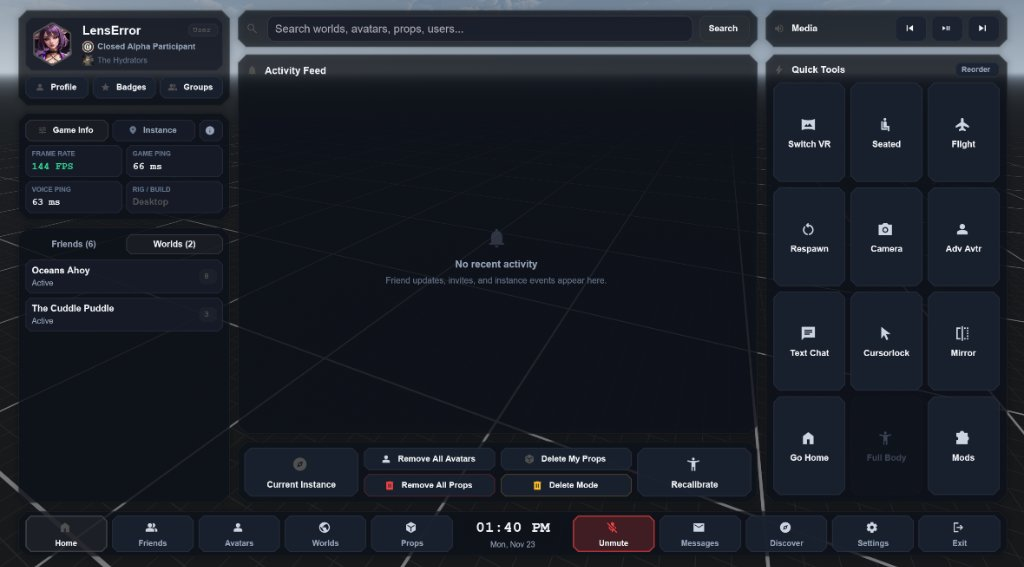
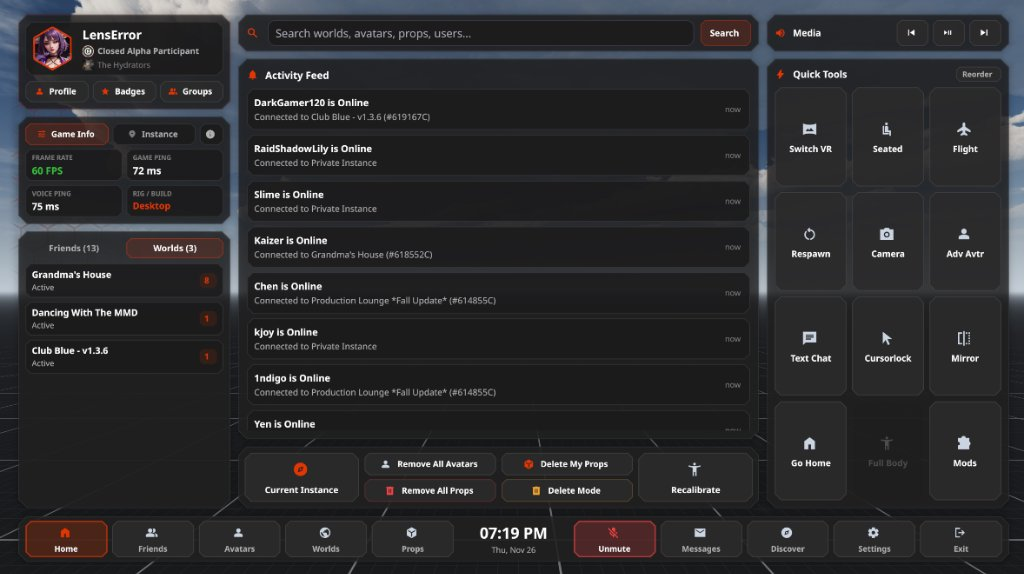
Update README and refresh screenshots

diff --git a/README.md b/README.md
@@ -1,49 +1,85 @@
 # LumenicMenu
 
-A MelonLoader mod for ChilloutVR that replaces the Cohtml-based Main Menu and Quick Menu with a native Rust UI built on [Lumenic](https://github.com/LensError/Lumenic), rendered offscreen and uploaded to Unity textures.
+A fast, modern replacement for ChilloutVR's **Main Menu**, **Quick Menu**, and **HUD**, built with a native Rust UI renderer ([Lumenic](https://github.com/LensError/Lumenic)) for smooth performance in both Desktop and VR.
+
+## Installation
+
+1. Make sure **MelonLoader** is installed for ChilloutVR.
+2. Download the latest `LumenicMenu.dll` from the [Releases](https://github.com/LensError/Lumenic-CVR-Menu/releases/latest) page.
+3. Place `LumenicMenu.dll` into your `ChilloutVR/Mods/` folder.
+4. Launch ChilloutVR.
+
+> [!TIP]
+> LumenicMenu includes a built-in update checker that notifies you when a new version is available and lets you update directly from inside the game.
 
 ## Screenshots
 
-| Quick Menu (Pinned & 3D Avatar) | Main Menu (Home Dashboard) |
+| Quick Menu | Main Menu |
 |---|---|
-| ![Quick Menu](images/quick-menu.jpg) | ![Main Menu Home](images/main-menu-home.jpg) |
+| ![Quick Menu](images/quick-menu.jpg) | ![Main Menu](images/main-menu-home.jpg) |
 
-| Settings (Live Search) | Worlds Browser |
+| Settings | World Details |
 |---|---|
-| ![Settings Search](images/settings-search.jpg) | ![Worlds Browser](images/worlds-browser.jpg) |
+| ![Settings](images/settings.jpg) | ![World Details](images/world-details.jpg) |
 
-| Avatar Settings | User Profile & Moderation |
-|---|---|
-| ![Avatar Settings](images/avatar-settings.jpg) | ![User Profile](images/user-profile.jpg) |
+## Key Features
 
-| World Details (360° Preview & Pinning) | Prop Details & Pinning |
-|---|---|
-| ![World Details](images/world-details.jpg) | ![Prop Details](images/prop-details.jpg) |
+- **Faster, Smoother Menus:** Replaces the heavy Cohtml web menus with a native renderer that skips idle frames when nothing changes and lets you cap UI refresh rate (`15-144 Hz`).
+- **Searchable Settings:** Search across every ChilloutVR setting in one place, with grouped subcategory cards, live dropdowns (Microphone, TTS, World Transitions, Face/Eye Tracking, Video Decoder, Cache), and quick jump to Mod Settings.
+- **Unified HUD (Optional):** Clean native HUD for Alerts, Mic Indicator, Notifications, and ChatBox. Customize horizontal/vertical spread and individual element sizes separately for **Desktop** and **VR** with a live preview while adjusting.
+- **Quick Menu Pinning & 3D Preview:** Pin up to 60 Avatars, Worlds, and Props next to a live 3D avatar preview, with quick category filters and an Edit mode.
+- **Full Mod Compatibility:**
+  - **UILib:** Mirrors Quick Menu mod tabs, categories, buttons, toggles, sliders, cycle buttons, text inputs, modals, toasts, colour picker, and player/prop lists (with an optional compact icon-only tab strip).
+  - **Mowods:** Full support in Main Menu Mod Settings, including mod/setting search, author/version/assembly info, source links, color-coded mod categories, grouped sections, tooltips, custom Mowods pages/buttons, and Reset buttons.
+  - **UIExpansionKit:** Zero-dependency bridge for MelonPreferences, ranges, visibilities, and custom controls. If both Mowods and UIExpansionKit are installed, a header toggle lets you switch between them anytime.
+- **Complete Menu Suite:** Home dashboard with optional local Recent History, Content Browser (Avatars, Worlds, Props, Global Search, Discover), Social (Friends, Current Instance, Messages, Profile bio/pronouns editing), Player Colors picker with menu colorizing, Avatar Settings, and reorderable Quick Actions / Quick Tools.
 
-## What It Adds Over the Vanilla Menu
+## In-Game Settings & Switching Back
 
-- **Search in Settings**: Live search bar across all ChilloutVR settings categories in one view, with quick switching between Vanilla Settings and Mod Settings.
-- **Pinning in Quick Menu**: Pin up to 60 Avatars, Worlds, and Props into a dedicated Quick Menu card next to the 3D avatar turntable, with All / Avatars / Worlds / Props filters and an Edit mode to unpin (`UserData/LumenicMenu/pinned-items.json`).
-- **Native Rust Renderer**: Replaces Cohtml web views with offscreen `lumenic` rendering, idle-frame skipping, and a configurable refresh rate cap (`15-144 Hz`).
-- **Mod Ecosystem Bridges**:
-  - **UILib**: Mirrors Quick Menu mod tabs, categories, buttons, toggles, sliders, cycle buttons, text inputs, modals, toasts, colour picker, and player/prop lists.
-  - **UIExpansionKit**: Reflection bridge (no hard dependency) rendering MelonPreferences, ranges, visibilities, and custom controls in Main Menu Mod Settings.
-  - **LumenicMenu Extension API (`LumenicMenu.Api`)**: Native C# MelonLoader API for supportive mods to build custom Quick Menu & Main Menu tabs, inject/restyle/replace built-in sections, override global font scale/theme/layout tokens, and upload live textures. See [docs/EXTENSIONS.md](docs/EXTENSIONS.md).
-- **Complete Menu Suite**: Home dashboard with optional local recent history, 3D avatar preview rig, Content Browser (Avatars, Worlds, Props, Global Search, Discover), Social (Friends, Current Instance, Messages, local Profile bio/pronouns editing), Player Colors picker with CVR theme & tame panel colorizing, Avatar Settings, and reorderable Quick Actions / Quick Tools.
+All LumenicMenu options are available inside **Settings -> LumenicMenu** (and in `MelonPreferences` under `LumenicMenu`):
 
-## Usage & Controls
+- **Toggle Menus Independently:** Enable or disable the Main Menu, Quick Menu, or HUD separately at any time (also accessible from the `LumenicMenu` Quick Menu tab in both Lumenic and vanilla menus).
+- **Appearance & Comfort:** Text Size presets (`75%` / `100%` / `125%` / `150%`), player accent colorizing, click sound pack (`SoftSub`, `Glass`, `Vanilla`), compact icon-only Quick Menu mod tabs, and separate Desktop/VR scroll speeds.
+- **HUD Layout:** Separate Desktop and VR horizontal/vertical spread plus individual sizes for Alerts & Icons, Mic Icon, Notifications, and ChatBox, each with individual Reset and Reset All buttons.
+- **Performance & Privacy:** Configurable UI refresh cap (`15 - 144 Hz`), optional local Recent History toggle, and one-click clear for local history data.
 
-- **Independent Toggles**: Both menus are enabled by default. You can disable or re-enable the Main Menu and Quick Menu separately via `MelonPreferences` (`LumenicMenu`) or under the `LumenicMenu` Quick Menu tab (works in both Lumenic and vanilla menus).
-- **Key Settings** (`Settings -> LumenicMenu` / `MelonPreferences`):
-  - `EnableMainMenu` / `EnableQuickMenu` (`true` by default, toggled in the `LumenicMenu` QM tab)
-  - `UiClickSounds` / `UiSoundPack` (default `SoftSub`, options: `SoftSub`, `Glass`, `Vanilla`)
-  - `MaxRefreshHz` (`15` - `144`, default `60`)
-  - `DesktopScrollMultiplier` / `VrScrollMultiplier`
-  - `EnableRecentHistory` (`true` by default; toggle local `Recent` categories and clear local `UserData` directly from Settings)
-  - `FontScale` (`0.5` - `2.5`, default `1.0`, selectable via **Text Size** presets `75%` / `100%` / `125%` / `150%` in Settings or `LumenicApi.Theme`)
-  - `UiScale` (`0.5` - `2.0`, default `1.0`)
+> [!NOTE]
+> If you run into a base-game issue and want to verify whether it is caused by a mod, toggle LumenicMenu off or remove `LumenicMenu.dll` from `ChilloutVR/Mods/` and restart the game.
 
-## Building from Source
+---
+
+## For Mod Developers (`LumenicMenu.Api`)
+
+LumenicMenu ships with a C# Extension API (`LumenicMenu.Api`) so third-party MelonLoader mods can build native Lumenic UI alongside (or without replacing) BTKUILib:
+
+- Add custom **Quick Menu** (`800x800`) and **Main Menu** (`1280x720`) tabs, sub-pages, and modals using a declarative `UiBuilder`.
+- Inject into, restyle, hide, or replace built-in Lumenic sections (`qm.home.banner`, `qm.home.actions`, `qm.player_details.actions`, `mm.settings.lumenic`, etc.).
+- Override global theme tokens (typography, font scale, colors, spacing, custom `.ttf`/`.otf` fonts) via `LumenicApi.Theme`.
+- Upload PNG/JPG bytes, remote URLs, raw RGBA buffers, or live Unity `Texture2D` frames.
+
+### Soft-Dependency Quick Start
+
+Reference `LumenicMenu.dll` with `<Private>false</Private>` and isolate API calls behind `[MethodImpl(MethodImplOptions.NoInlining)]`:
+
+```csharp
+[assembly: MelonOptionalDependencies("LumenicMenu")]
+
+public override void OnLateInitializeMelon()
+{
+    if (MelonBase.RegisteredMelons.Any(m => m.Info.Name == "LumenicMenu"))
+        LumenicIntegration.Initialize(this);
+}
+```
+
+See the full guide and widget reference in [docs/EXTENSIONS.md](docs/EXTENSIONS.md).
+
+---
+
+## Architecture & Building from Source
+
+### Architecture
+- **C# (`Main.cs`, `Bridge/`, `Api/`, `Hud/`):** Owns all ChilloutVR/Unity/MelonLoader APIs, state snapshot serialization, mod bridges (UILib, Mowods, UIExpansionKit), and action dispatch.
+- **Rust (`native-ui/`):** Pure UI layout and offscreen rendering built on `lumenic`, compiled to `lumenic_cvr_ui.dll` and embedded directly inside `LumenicMenu.dll`.
 
 ### Requirements
 - ChilloutVR with MelonLoader installed
@@ -51,14 +87,24 @@ A MelonLoader mod for ChilloutVR that replaces the Cohtml-based Main Menu and Qu
 - Rust toolchain (`cargo`)
 - .NET SDK supporting `netstandard2.1`
 
-### Build
+### Build & Test
+
 ```powershell
+# Point CVRPath to your ChilloutVR folder (once per shell or set in system env vars)
+$env:CVRPath = "C:\Program Files (x86)\Steam\steamapps\common\ChilloutVR"
+
+# Build Rust UI + C# mod DLL (auto-embeds lumenic_cvr_ui.dll and copies LumenicMenu.dll to $(CVRPath)/Mods/)
 dotnet build LumenicMenu.csproj -c Release
+
+# Run Rust UI integration & FFI tests
+cd native-ui
+cargo test
 ```
-This automatically builds `native-ui` (`cargo build --release`), embeds `lumenic_cvr_ui.dll` into `LumenicMenu.dll`, and copies the output to `$(CVRPath)/Mods/`.
+
+---
 
 > [!IMPORTANT]
-> **Disclaimer**: Modding ChilloutVR is [officially allowed](https://docs.chilloutvr.net/official/legal/tos/#6-modding-our-game) per the ChilloutVR Terms of Service. However, **this modification is unofficial and not affiliated with ChilloutVR or the ChilloutVR team. Using it might cause issues with performance, security, or stability of the game.** Use it at your own risk.
+> **Disclaimer:** Modding ChilloutVR is [officially allowed](https://docs.chilloutvr.net/official/legal/tos/#6-modding-our-game) per the ChilloutVR Terms of Service. However, **this modification is unofficial and not affiliated with ChilloutVR or the ChilloutVR team. Using it might cause issues with performance, security, or stability of the game.** Use it at your own risk.
 
 > [!NOTE]
-> If you encounter any issues or bugs, or want to make a feature request, please open an issue or pull request on GitHub, or DM me on Discord (`@LensError`).
+> Found a bug or want to request a feature? Open an issue or pull request on GitHub, or DM `@LensError` on Discord.
